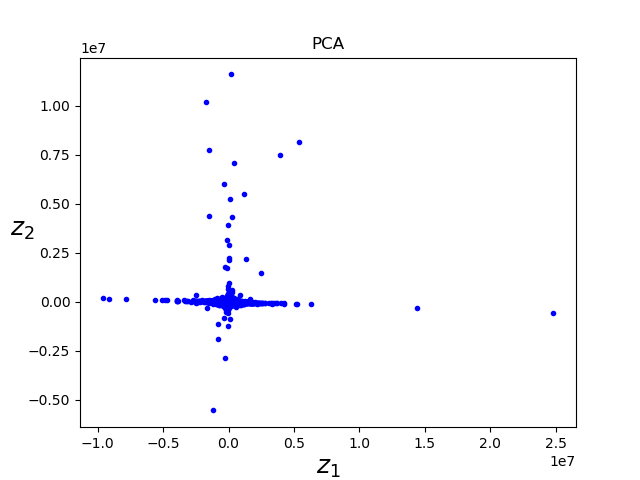
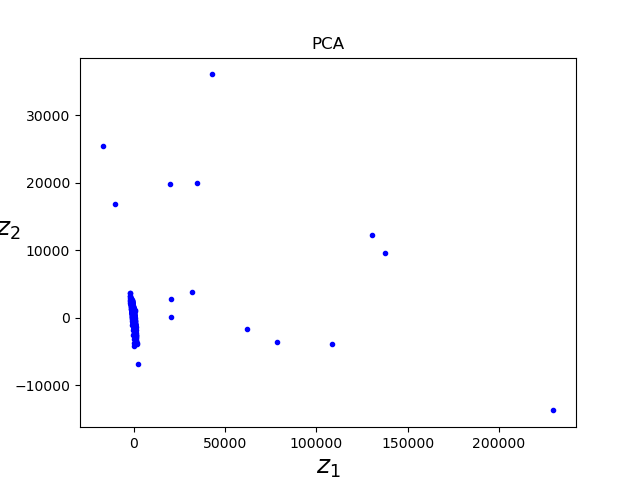
AEs working, pending to access eigenvectors

diff --git a/AEs_lib.py b/AEs_lib.py
@@ -10,13 +10,14 @@ from tensorflow.keras.losses import mse
 from tensorflow.keras.optimizers import Adam
 from tensorflow.keras.utils import plot_model
 
-class AEpca():
+class AEpca:
 
-    def __init__(self, in_dim, lat_dim=2, batch_size=32, epochs=10):
+    def __init__(self, in_dim, lat_dim=2, batch_size=32, epochs=10, lr= 1e-4):
         self.in_dim = in_dim
         self.batch_size = batch_size
         self.lat_dim = lat_dim
         self.epochs = epochs
+        self.lr = lr
         self.encoder = None
         self.decoder = None
         self.AE = None
@@ -45,7 +46,7 @@ class AEpca():
 #        plot_model(autoencoder, to_file='autoencoder.png', show_shapes=True)
 
         # Mean square error loss function with Adam optimizer
-        autoencoder.compile(loss='mse', optimizer='adam')
+        autoencoder.compile(loss='mse', optimizer='adam') #, lr = self.lr)
 
         self.AE = autoencoder
  
@@ -53,29 +54,48 @@ class AEpca():
         self.AE.fit(spectra, spectra, epochs=self.epochs,
                     batch_size=self.batch_size)
 
-    def predict(self, test_spectra):
-        return self.AE.predict(test_spectra)
+    def predict(self, test_spec):
+        if test_spec.ndim == 1:
+            test_spec = test_spec.reshape(1, -1)
+        return self.AE.predict(test_spec)
 
-    def encode(self, spectra):
-        return self.encoder(spectra)
+    def encode(self, spec):
+        if spec.ndim == 1:
+            spec = spec.reshape(1, -1)
+        return self.encoder(spec)
 
     def decode(self, lat_val):
         return self.decoder(lat_val)
 
-class Pca:
+class PcA:
 
-    def __init__(self, n_components=2):
-        self.n_components = n_components
-        self.PCA = PCA(self.n_components)
+    def __init__(self, n_comps = False):
+        if not(n_comps):
+            self.PCA = PCA()
+        else:
+            self.n_comps = n_comps
+            self.PCA = PCA(self.n_comps)
 
     def fit(self, spec):
-        return self.PCA.fit_transform(spec)
+        return self.PCA.fit(spec)
+
+    def components(self):
+        return self.PCA.components_
+
+    def expvar(self):
+        return self.PCA.explained_variance_ratio_
 
     def inverse(self, trf_spec):
+        if trf_spec.ndim == 1:
+            trf_spec = trf_spec.reshape(1, -1)
+
         return self.PCA.inverse_transform(trf_spec)
 
     def predict(self, test_spec):
-        pass
+        if test_spec.ndim == 1:
+            test_spec = test_spec.reshape(1, -1)
+
+        return self.PCA.transform(test_spec)
 
 def plt_spec_pca(flx,pca_flx,componets):
     '''Comparative plot to see how efficient is the PCA compression'''

diff --git a/AEs.py b/AEs.py
@@ -8,7 +8,7 @@ import numpy as np
 from sklearn.preprocessing import StandardScaler
 
 from AEs_lib import plot_2D, plt_spec_pca
-from AEs_lib import AEpca, Pca
+from AEs_lib import AEpca, PcA
 
 
 ti = time()
@@ -16,45 +16,46 @@ ti = time()
 # Loading the data
 print('Loading the data...')
 proc_dbPath = f'/home/edgar/zorro/SDSSdata/data_proc'
-fname =  f'flxs_5000.npy'
+fname =  f'flxs_5000_div_med.npy'
 dest = f'{proc_dbPath}/{fname}'
 if os.path.exists(dest):
-    flxs = np.load(dest, mmap_mode='r')
+    spec = np.load(dest, mmap_mode='r')
 else:
     print(f'There is no {fname} in {proc_dbPath} directory!')
 
 ### Performing PCA
 print('Performing PCA...')
 
-pca = Pca(n_components=2)
-tr_flxs = pca.fit(flxs)
+pca = PcA()
+
+tr_spec = pca.fit(spec)
 
 ## Inverse transform
-print('Performing inverse PCA...')
+#print('Performing inverse PCA...')
 
-inv_tr = pca.inverse(tr_flxs)
-plot_2D(tr_flxs, 'PCA')
+#inv_tr = pca.inverse(tr_flxs)
+#plot_2D(tr_flxs, 'PCA')
 
 ## Ploting a spetrum
-plt_spec_pca(flxs[0],inv_tr[0],pca.n_components)
+#plt_spec_pca(flxs[0],inv_tr[0],pca.n_components)
 
 ## Normalizing the flux: removing the mean value and normalizing
 # by the standard deviation. This is done because
 # pca.fit_transform does the same on the data. Therefore if we
 # want to compare we need to have the same data.
 
-sc = StandardScaler()
-flxs = sc.fit_transform(flxs)
+#sc = StandardScaler()
+#flxs = sc.fit_transform(flxs)
 
 ## Creating the AE
 print('Training Auto Encoder...')
 
-AE = AEpca(in_dim=flxs.shape[1], epochs=10)
-AE.fit(flxs[:-1, :])
+AE = AEpca(in_dim=spec.shape[1], epochs=10)
+AE.fit(spec)
 #pred = AE.predict(flxs)
 #plt_spec_pca(flxs[-1,:],pred[-1,:],2)
-codings = AE.encode(flxs)
-plot_2D(codings, 'AE')
+codings = AE.encode(spec)
+#plot_2D(codings, 'AE')
 
 tf = time()
 print(f'Running time: {tf-ti:.2f}')

diff --git a/data_proc_sdss.py b/data_proc_sdss.py
@@ -44,13 +44,15 @@ if not os.path.exists(f'{dbPath}/gs_{n_obs}.csv'):
     print('Starting data curation process...')
     gs_n = pd.read_csv(f'{dbPath}/gs_{n_obs}.csv')
     m_wl, flxs = spectra(gs_n, dbPath)
-    np.save(f'{dbPath}/data_proc/flxs_{flxs.shape[0]}.npy', flxs)
+    print(f'Saving file: flxs_{flxs.shape[0]}_div_med_rem_10.npy')
+    np.save(f'{dbPath}/data_proc/flxs_{flxs.shape[0]}_div_med_rem_10.npy', flxs)
     np.save(f'{dbPath}/data_proc/wl_grid_{m_wl.size}.npy', m_wl)
 else:
     print('Starting data curation process...')
     gs_n = pd.read_csv(f'{dbPath}/gs_{n_obs}.csv')
     m_wl, flxs = spectra(gs_n, dbPath)
-    np.save(f'{dbPath}/data_proc/flxs_{flxs.shape[0]}.npy', flxs)
+    print(f'Saving file: flxs_{flxs.shape[0]}_div_med_rem_10.npy')
+    np.save(f'{dbPath}/data_proc/flxs_{flxs.shape[0]}_div_med_rem_10.npy', flxs)
     np.save(f'{dbPath}/data_proc/wl_grid_{m_wl.size}.npy', m_wl)
 
 #for flx in flxs:

diff --git a/proc_sdss_lib.py b/proc_sdss_lib.py
@@ -81,9 +81,9 @@ def spectra(gs, dbPath):
     for flx in flxs_itp:
         flx[np.where(~np.isfinite(flx))] = np.nanmedian(flx)
 
-    # Normalizing by the median
-    flxs_itp -= np.median(flxs_itp, axis=1).reshape((flxs_itp.shape[0],1))
-
+    # Substracting the median and normalizing by the standar deviation
+    flxs_itp *= 1/np.median(flxs_itp, axis=1).reshape((flxs_itp.shape[0],1))
+#    flxs_itp *= 1/np.std(flxs_itp, axis=1).reshape((flxs_itp.shape[0],1))
 
     print('Job finished')
 
@@ -152,6 +152,9 @@ def flx_rest_frame(plate, mjd, fiberid, run2d, z, dbPath):
         wl_rg = 10. ** (hdul[1].data['loglam'])
         flx = hdul[1].data['flux']
 
+    ## Aviding spectra with many indefinite values
+    if np.count_nonzero(~np.isfinite(flx)) > flx.size/200:
+        return 'No value', 'No value'
 
     # Deredshifting & min & max
     z_factor = 1./(1. + z)
